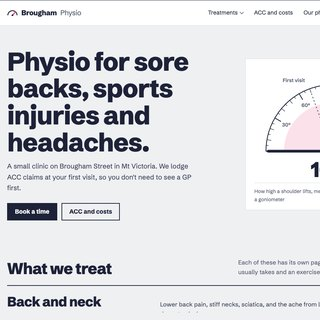
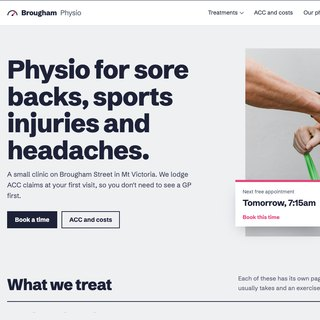
Physio example: photo hero with next free appointment; pricing rows link to examples

diff --git a/examples/wellington-physio/physio.js b/examples/wellington-physio/physio.js
@@ -31,45 +31,13 @@
     if (row) row.classList.add("today");
   }
 
-  /* the goniometer: the moving arm sweeps from the first-visit angle to week eight */
-  var g = $("gonio");
-  if (g) {
-    var NS = "http://www.w3.org/2000/svg", CX = 200, CY = 200, R = 170, FROM = 70, TO = 160;
-    function pt(deg, r) { var a = (180 - deg) * Math.PI / 180; return [CX + r * Math.cos(a), CY - r * Math.sin(a)]; }
-    function el(name, attrs) { var e = document.createElementNS(NS, name); for (var k in attrs) e.setAttribute(k, attrs[k]); g.appendChild(e); return e; }
-    el("path", { class: "rim", d: "M" + (CX - R) + " " + CY + "A" + R + " " + R + " 0 0 1 " + (CX + R) + " " + CY + "Z" });
-    for (var d = 0; d <= 180; d += 5) {
-      var big = d % 30 === 0, mid = d % 10 === 0, a = pt(d, R), b = pt(d, R - (big ? 18 : mid ? 11 : 6));
-      el("line", { class: "tick" + (big ? " big" : ""), x1: a[0], y1: a[1], x2: b[0], y2: b[1] });
-      if (big && d % 180) { var t = pt(d, R - 34); el("text", { class: "num", x: t[0], y: t[1] + 5, "text-anchor": "middle" }).textContent = d + "°"; }
-    }
-    var arc = el("path", { class: "arc" });
-    var gh = pt(FROM, R - 6);
-    el("line", { class: "ghost", x1: CX, y1: CY, x2: gh[0], y2: gh[1] });
-    var gl = pt(FROM, R + 18);
-    el("text", { class: "ghost-l", x: gl[0] - 6, y: gl[1], "text-anchor": "end" }).textContent = "First visit";
-    el("line", { class: "arm", x1: CX, y1: CY, x2: CX - R + 6, y2: CY });
-    var arm = el("line", { class: "arm move", x1: CX, y1: CY });
-    el("circle", { class: "pin", cx: CX, cy: CY, r: 9 });
-    var read = el("text", { class: "read", x: CX, y: CY + 66, "text-anchor": "middle" });
-    function set(deg) {
-      var e = pt(deg, R - 6), s = pt(0, R - 46), m = pt(deg, R - 46);
-      arm.setAttribute("x2", e[0]); arm.setAttribute("y2", e[1]);
-      arc.setAttribute("d", "M" + CX + " " + CY + "L" + s[0] + " " + s[1] + "A" + (R - 46) + " " + (R - 46) + " 0 0 1 " + m[0] + " " + m[1] + "Z");
-      read.textContent = Math.round(deg) + "°";
-    }
-    if (still) set(TO);
-    else {
-      set(FROM);
-      setTimeout(function () {
-        var t0 = performance.now(), dur = 2200;
-        (function step(t) {
-          var p = Math.min(1, (t - t0) / dur), ease = p < .5 ? 4 * p * p * p : 1 - Math.pow(-2 * p + 2, 3) / 2;
-          set(FROM + (TO - FROM) * ease);
-          if (p < 1) requestAnimationFrame(step);
-        })(t0);
-      }, 500);
-    }
+  /* next free appointment on the home page: the next working morning */
+  var nf = $("next-free");
+  if (nf) {
+    var d = new Date(); d.setDate(d.getDate() + 1);
+    var label = "Tomorrow";
+    if (d.getDay() === 0) { d.setDate(d.getDate() + 1); label = "Monday"; }
+    nf.textContent = label + ", " + (d.getDay() === 6 ? "8:30am" : "7:15am");
   }
 
   /* ACC check: two questions, one plain answer */

diff --git a/examples/wellington-physio/physio.css b/examples/wellington-physio/physio.css
@@ -59,26 +59,20 @@ section{padding:clamp(52px,7vw,90px) 0}
 .lead{margin-top:14px;max-width:34em;font-size:19px;color:#3c4257}
 .muted{color:var(--slate)}
 
-/* home hero with the goniometer */
+/* home hero */
 .hero .wrap{display:grid;grid-template-columns:minmax(0,1.1fr) minmax(0,.9fr);gap:clamp(28px,5vw,72px);align-items:center;padding:clamp(36px,5vw,64px) 0}
 .hero h1{font-size:clamp(40px,5.4vw,72px)}
 .hero .lead{max-width:28em}
 .hero .acts{display:flex;flex-wrap:wrap;gap:12px;margin-top:28px}
-.gonio{margin:0;padding:24px 24px 18px;background:var(--paper);border:1px solid var(--line)}
-.gonio svg{display:block;width:100%;height:auto;overflow:visible}
-.gonio .tick{stroke:var(--ink);stroke-width:1.2}
-.gonio .tick.big{stroke-width:2}
-.gonio .num{font:600 13px var(--type);fill:var(--slate)}
-.gonio .arc{fill:var(--tape-soft)}
-.gonio .rim{fill:none;stroke:var(--ink);stroke-width:2}
-.gonio .arm{stroke:var(--ink);stroke-width:7;stroke-linecap:round}
-.gonio .arm.move{stroke:var(--tape)}
-.gonio .ghost{stroke:var(--slate);stroke-width:2;stroke-dasharray:4 5}
-.gonio .ghost-l{font:600 13px var(--type);fill:var(--slate)}
-.gonio .pin{fill:var(--paper);stroke:var(--ink);stroke-width:3}
-.gonio .read{font:800 54px var(--type);fill:var(--ink);letter-spacing:-.03em}
-.gonio figcaption{display:flex;justify-content:space-between;gap:12px;margin-top:6px;padding-top:12px;border-top:1px solid var(--line);font-size:14px;color:var(--slate)}
-.gonio figcaption b{color:var(--ink);text-align:right;white-space:nowrap}
+
+.hero-photo{position:relative;margin:0}
+.hero-photo img{width:100%;aspect-ratio:5/5.4;object-fit:cover;object-position:50% 30%}
+.next-card{position:absolute;left:-28px;bottom:28px;display:block;min-width:230px;padding:16px 20px 14px;background:var(--paper);border-top:6px solid var(--tape);box-shadow:0 18px 40px -16px rgba(29,34,56,.4);text-decoration:none}
+.next-card span{display:block;font-size:14px;color:var(--slate)}
+.next-card b{display:block;margin-top:2px;font-size:24px;letter-spacing:-.02em}
+.next-card i{display:block;margin-top:8px;font-style:normal;font-weight:700;font-size:15px;color:var(--tape)}
+.next-card:hover b{color:var(--tape)}
+@media(max-width:900px){.next-card{left:12px;bottom:12px}}
 
 /* treatments list on the home page */
 .treat-head{display:flex;flex-wrap:wrap;justify-content:space-between;align-items:end;gap:12px 40px;margin-bottom:24px}

diff --git a/squarespace-website-cost.html b/squarespace-website-cost.html
@@ -17,7 +17,7 @@
 <meta property="og:description" content="The subscription, the design work, and the ongoing bits, with real numbers.">
 <meta property="og:url" content="https://seafog.nz/squarespace-website-cost.html">
 <meta property="og:image" content="https://seafog.nz/img/banner-pricing-1400.jpg">
-<link rel="stylesheet" href="style.css">
+<link rel="stylesheet" href="style.css?v=2">
 </head>
 <body>
 
@@ -106,19 +106,22 @@
     <p class="lede">Fixed, quoted in writing before anything starts. The price I quote is the price you pay.</p>
 
     <div class="rows">
-      <div class="row">
+      <div class="row ex-row">
+        <a class="ex" href="examples/wellington-cafe/" target="_blank" rel="noopener" aria-label="Example: Low Tide Kitchen, a one-page cafe site"><img src="img/examples/wellington-cafe-sq.jpg?v=3" alt="" width="56" height="56" loading="lazy"><span>Example</span></a>
         <span class="n">One-page site</span>
         <p>A single scrolling page. Right for a trade, a cafe, or anyone who mainly needs
           to be found and contacted.</p>
         <span class="amt">$2,400</span>
       </div>
-      <div class="row">
+      <div class="row ex-row">
+        <a class="ex" href="examples/wellington-physio/" target="_blank" rel="noopener" aria-label="Example: Brougham Physio, a seven-page clinic site"><img src="img/examples/wellington-physio-sq.jpg?v=3" alt="" width="56" height="56" loading="lazy"><span>Example</span></a>
         <span class="n">Small business site</span>
         <p>Around five to seven pages: services, about, contact, and the pages that earn
           you search traffic.</p>
         <span class="amt">$3,900</span>
       </div>
-      <div class="row">
+      <div class="row ex-row">
+        <a class="ex" href="examples/nelson-ceramics/" target="_blank" rel="noopener" aria-label="Example: Salt Hand Ceramics, an online store"><img src="img/examples/nelson-ceramics-sq.jpg?v=3" alt="" width="56" height="56" loading="lazy"><span>Example</span></a>
         <span class="n">Online store</span>
         <p>Squarespace commerce set up properly: products, shipping rules, payments,
           and the tax settings people usually get wrong.</p>

diff --git a/index.html b/index.html
@@ -123,7 +123,7 @@
   </div>
   <ul class="work-track" tabindex="0" aria-label="Websites I've designed. Scroll sideways to see more.">
       <li><a href="examples/wellington-cafe/" target="_blank" rel="noopener"><img src="img/examples/wellington-cafe-sq.jpg?v=3" alt="Low Tide Kitchen concept: a riso-printed poster site for a surf café, with a live open or shut sticker" width="320" height="320" loading="lazy"><b>Beach café</b><span>Lyall Bay</span></a></li>
-      <li><a href="examples/wellington-physio/" target="_blank" rel="noopener"><img src="img/examples/wellington-physio-sq.jpg?v=1" alt="Physio clinic site with seven linked pages, ACC check and online booking" width="320" height="320" loading="lazy"><b>Physio clinic</b><span>Wellington</span></a></li>
+      <li><a href="examples/wellington-physio/" target="_blank" rel="noopener"><img src="img/examples/wellington-physio-sq.jpg?v=3" alt="Physio clinic site with seven linked pages, ACC check and online booking" width="320" height="320" loading="lazy"><b>Physio clinic</b><span>Wellington</span></a></li>
       <li><a href="examples/queenstown-tours/" target="_blank" rel="noopener"><img src="img/examples/queenstown-tours-sq.jpg?v=6" alt="Kayak tour company with online booking" width="320" height="320" loading="lazy"><b>Kayak tours</b><span>Queenstown</span></a></li>
       <li><a href="examples/christchurch-electrician/" target="_blank" rel="noopener"><img src="img/examples/christchurch-electrician-sq.jpg?v=3" alt="Electrician with a price guide and estimate builder" width="320" height="320" loading="lazy"><b>Electrician</b><span>Christchurch</span></a></li>
       <li><a href="examples/auckland-dentist/" target="_blank" rel="noopener"><img src="img/examples/auckland-dentist-sq.jpg?v=3" alt="Dental clinic with online booking" width="320" height="320" loading="lazy"><b>Dental clinic</b><span>Auckland</span></a></li>

diff --git a/squarespace-website-design.html b/squarespace-website-design.html
@@ -109,7 +109,7 @@
   </div>
   <ul class="work-track" tabindex="0" aria-label="Websites I've designed. Scroll sideways to see more.">
       <li><a href="examples/wellington-cafe/" target="_blank" rel="noopener"><img src="img/examples/wellington-cafe-sq.jpg?v=3" alt="Low Tide Kitchen concept: a riso-printed poster site for a surf café, with a live open or shut sticker" width="320" height="320" loading="lazy"><b>Beach café</b><span>Lyall Bay</span></a></li>
-      <li><a href="examples/wellington-physio/" target="_blank" rel="noopener"><img src="img/examples/wellington-physio-sq.jpg?v=1" alt="Physio clinic site with seven linked pages, ACC check and online booking" width="320" height="320" loading="lazy"><b>Physio clinic</b><span>Wellington</span></a></li>
+      <li><a href="examples/wellington-physio/" target="_blank" rel="noopener"><img src="img/examples/wellington-physio-sq.jpg?v=3" alt="Physio clinic site with seven linked pages, ACC check and online booking" width="320" height="320" loading="lazy"><b>Physio clinic</b><span>Wellington</span></a></li>
       <li><a href="examples/queenstown-tours/" target="_blank" rel="noopener"><img src="img/examples/queenstown-tours-sq.jpg?v=6" alt="Kayak tour company with online booking" width="320" height="320" loading="lazy"><b>Kayak tours</b><span>Queenstown</span></a></li>
       <li><a href="examples/christchurch-electrician/" target="_blank" rel="noopener"><img src="img/examples/christchurch-electrician-sq.jpg?v=3" alt="Electrician with a price guide and estimate builder" width="320" height="320" loading="lazy"><b>Electrician</b><span>Christchurch</span></a></li>
       <li><a href="examples/auckland-dentist/" target="_blank" rel="noopener"><img src="img/examples/auckland-dentist-sq.jpg?v=3" alt="Dental clinic with online booking" width="320" height="320" loading="lazy"><b>Dental clinic</b><span>Auckland</span></a></li>

diff --git a/examples/wellington-physio/index.html b/examples/wellington-physio/index.html
@@ -33,9 +33,9 @@
       <p class="lead">A small clinic on Brougham Street in Mt Victoria. We lodge ACC claims at your first visit, so you don't need to see a GP first.</p>
       <div class="acts"><a class="btn" href="book.html">Book a time</a><a class="btn line" href="acc-and-costs.html">ACC and costs</a></div>
     </div>
-    <figure class="gonio">
-      <svg id="gonio" viewBox="0 -14 400 290" role="img" aria-label="A goniometer showing a shoulder lifting to 70 degrees at the first visit and 160 degrees by week eight"></svg>
-      <figcaption><span>How high a shoulder lifts, measured with a goniometer</span><b>First visit to week eight</b></figcaption>
+    <figure class="hero-photo">
+      <img src="img/band.jpg" alt="A physio guiding a patient through a shoulder exercise with a resistance band" width="1200" height="1400">
+      <a class="next-card" href="book.html"><span>Next free appointment</span><b id="next-free">Tomorrow, 7:15am</b><i>Book this time</i></a>
     </figure>
   </div>
 </div>

diff --git a/style.css b/style.css
@@ -126,6 +126,13 @@ section > .in[style*="grid"]{margin-top:12px}
 .row .n{font-weight:bold;color:var(--blue-d)}
 .row .amt{font-weight:bold;color:var(--orange-d);white-space:nowrap}
 .row p{grid-column:1/-1;grid-row:2;margin:2px 0 0;font-size:13px;color:var(--text2)}
+/* pricing rows with a small example thumbnail */
+.row.ex-row{grid-template-columns:64px minmax(0,1fr) auto}
+.row.ex-row .ex{grid-column:1;grid-row:1/3;align-self:start;text-decoration:none;text-align:center}
+.row.ex-row p{grid-column:2/-1}
+.ex img{display:block;width:56px;height:56px;object-fit:cover;border:1px solid #999;background:#fff}
+.ex span{display:block;width:58px;margin-top:2px;font-size:10px;color:var(--link);text-decoration:underline}
+.ex:hover img{border-color:var(--orange);outline:1px solid var(--orange)}
 
 ul.ticks{margin:10px 0 14px;padding:0;list-style:none}
 ul.ticks li{position:relative;padding-left:22px;color:var(--text2)}
